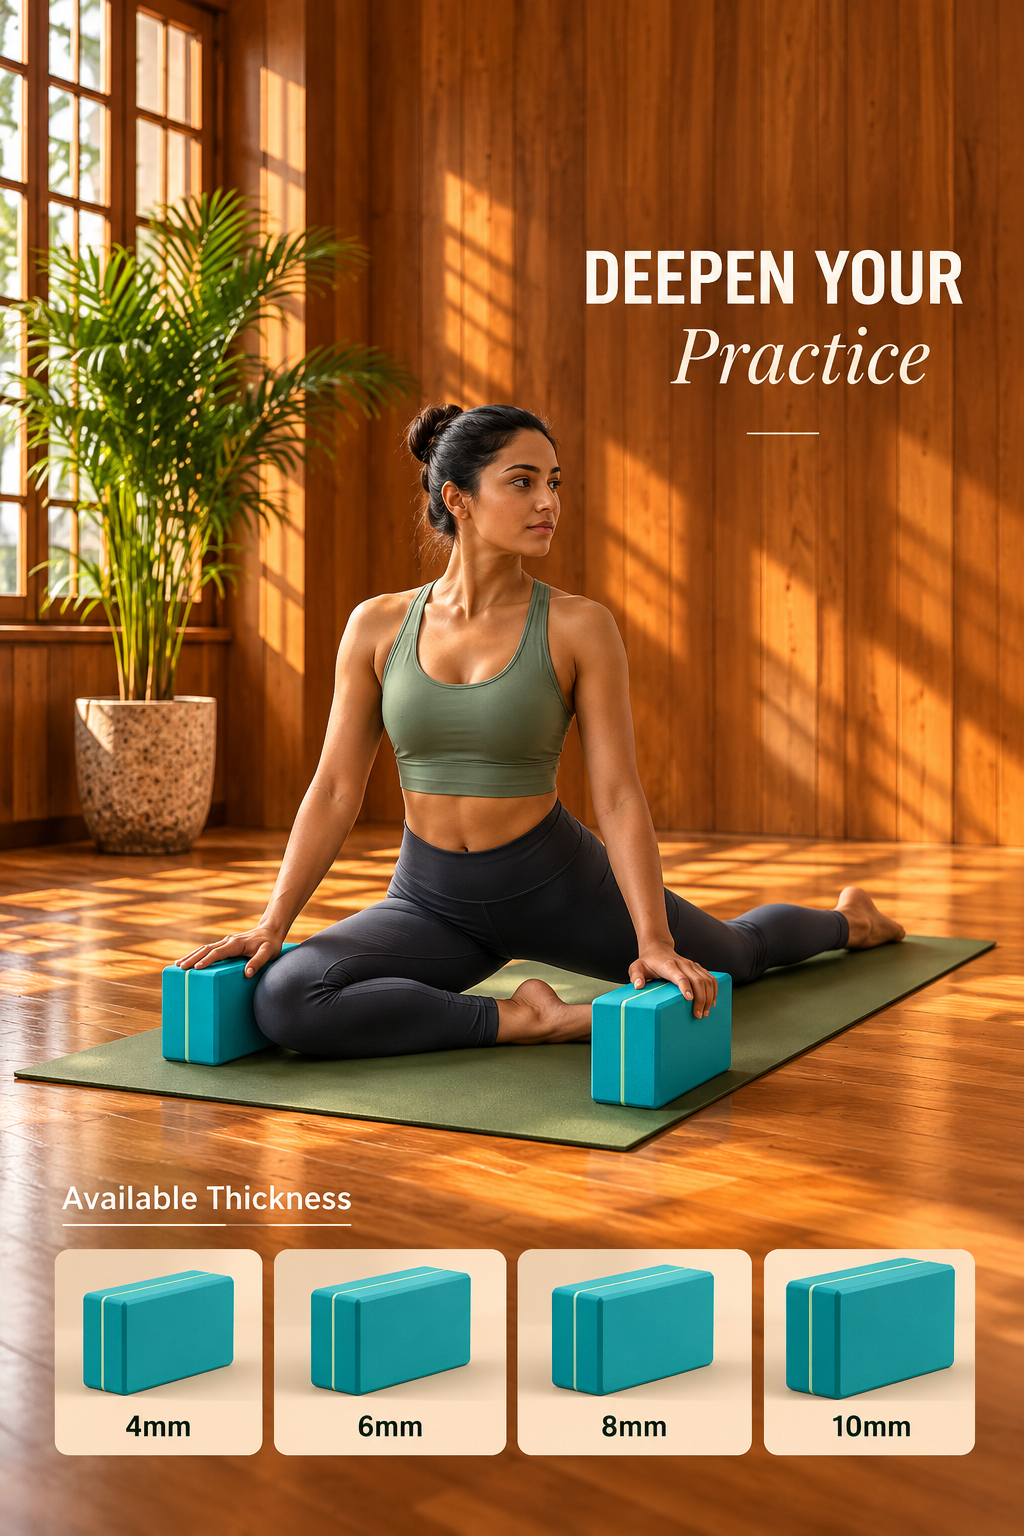
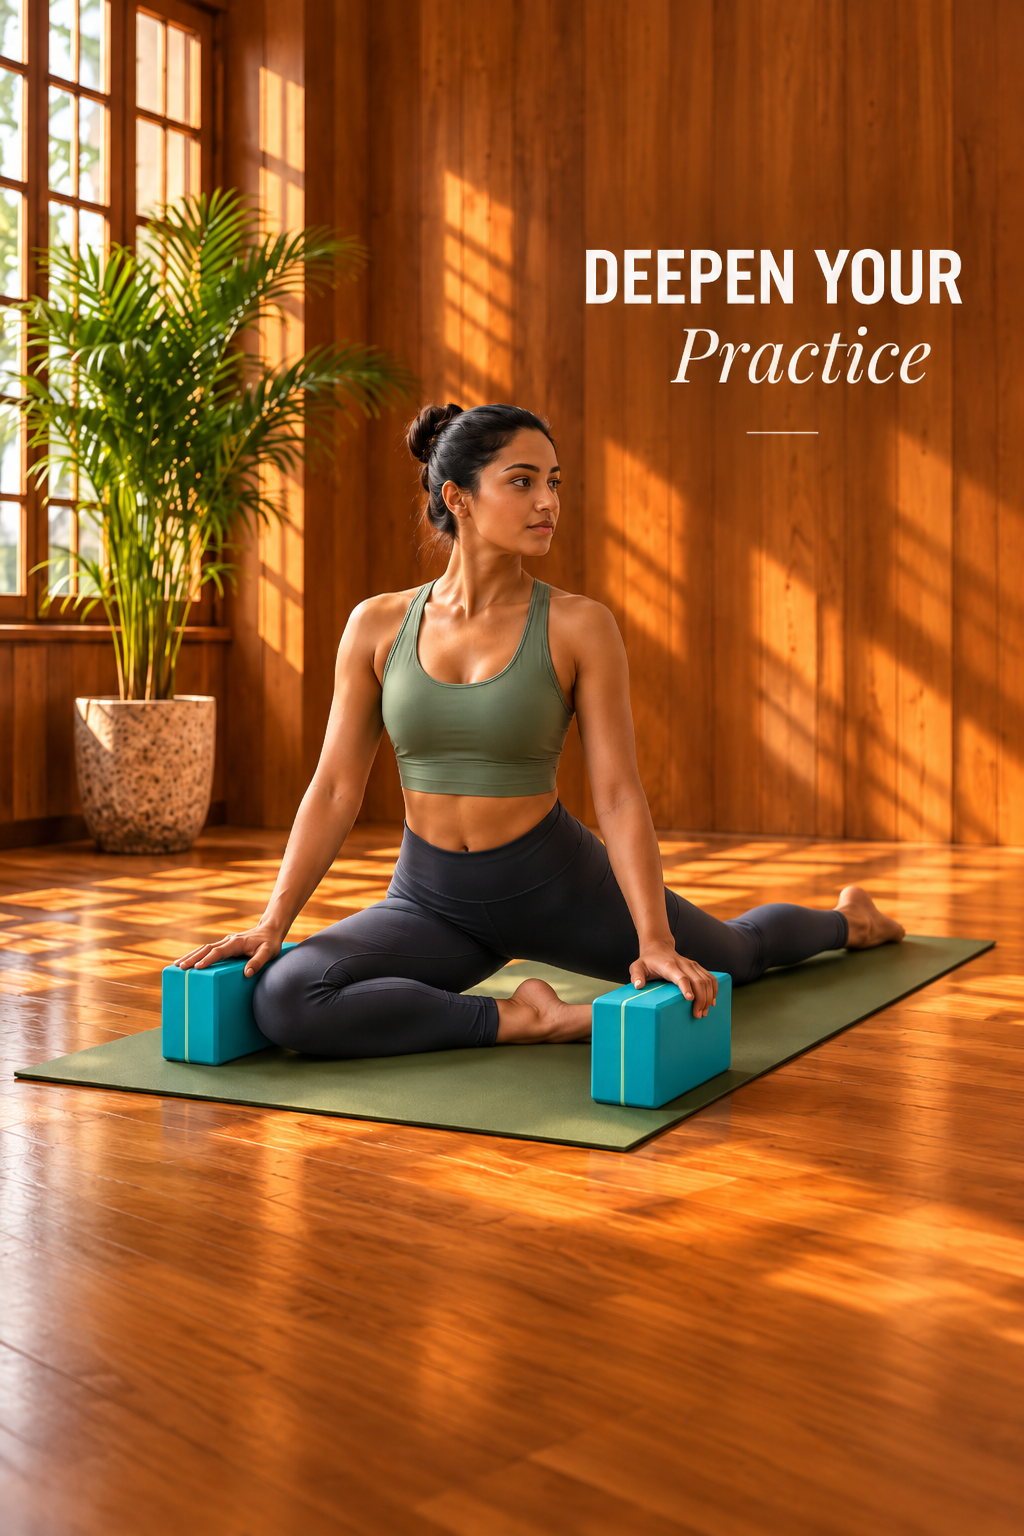
yoga block image change

diff --git a/backend/controllers/adminProductController.js b/backend/controllers/adminProductController.js
@@ -112,53 +112,41 @@ const deleteProduct = async (req, res) => {
 // @access  Private (Admin)
 const devRenameProduct = async (req, res) => {
   try {
-    const updates = [
+    const result = await Product.updateOne(
+      { name: 'Yoga Block Set' },
       {
-        name: 'Yoga Mat',
-        image: 'yogamat',
-        images: ['yogamat_2', 'yogamat_3','yogamat_4','yogamat_5'],
-      },
-      {
-        name: 'Yoga Block Set',
-        image: 'yogablock1',
-        images: ['yogablock1_2', 'yogablock1_3','yogablock1_4','yogablock1_5'],
-      },
-    ];
-
-    const results = [];
-
-    for (const u of updates) {
-      const result = await Product.updateOne(
-        { name: u.name },
-        { $set: { image: u.image, images: u.images } }
-      );
-
-      if (result.matchedCount === 0) {
-        results.push({ name: u.name, status: 'not found' });
-      } else {
-        results.push({ name: u.name, status: 'updated', modified: result.modifiedCount });
+        $set: {
+          name: 'Yoga Block (Brick) Set of 2',
+          weights: ['1'],
+          pricePerWeight: { '1': 700 },
+        },
       }
-    }
+    );
 
-    const notFound = results.filter((r) => r.status === 'not found');
-    if (notFound.length === results.length) {
+    if (result.matchedCount === 0) {
       return res.status(404).json({
         success: false,
-        message: 'None of the target products were found',
-        details: results,
+        message: 'Product "Yoga Block Set" not found',
+        details: [{ name: 'Yoga Block Set', status: 'not found' }],
       });
     }
 
     return res.status(200).json({
       success: true,
-      message: 'Product images updated',
-      details: results,
+      message: 'Product renamed and weights/prices updated',
+      details: [
+        {
+          name: 'Yoga Block Set',
+          status: 'updated',
+          modified: result.modifiedCount,
+        },
+      ],
     });
   } catch (error) {
     console.error('Dev update error:', error);
     res.status(500).json({
       success: false,
-      message: 'Failed to update products',
+      message: 'Failed to update product',
       error: error.message,
     });
   }

diff --git a/frontend/src/pages/ProductDetails.jsx b/frontend/src/pages/ProductDetails.jsx
@@ -290,7 +290,7 @@ const ProductDetails = () => {
             )}
 
             {/* Weight / Length Selection */}
-            {product.category !== 'senaboard' && (
+            {product.category !== 'senaboard' && product.name !== 'Yoga Block (Brick) Set of 2' && (
               <div className="mb-6">
                 <label className="block text-gray-700 font-medium mb-3">
                   Select {
@@ -331,7 +331,7 @@ const ProductDetails = () => {
               </div>
             )}
 
-            {/* Quantity Selection */}
+           {/* Quantity Selection */}
             <div className="mb-6">
               <label className="block text-gray-700 font-medium mb-3">Quantity</label>
               <div className="flex items-center gap-3">

diff --git a/frontend/src/pages/Products.jsx b/frontend/src/pages/Products.jsx
@@ -309,7 +309,7 @@ const Products = () => {
                       </div>
 
                       {/* Available Weights */}
-                      {product.category !== 'senaboard' && product.weights && product.weights.length > 0 && (
+                      {product.category !== 'senaboard' && product.name !== 'Yoga Block (Brick) Set of 2' && product.weights && product.weights.length > 0 && (
                         <p className="text-[10px] xs:text-xs text-gray-500 text-center mt-1 truncate">
                           {product.weights.slice(0, 3).map(weight =>
                             `${weight} ${product.category === 'sticks' ? 'ft'
